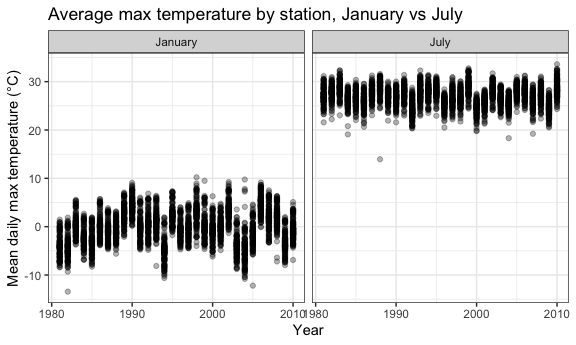
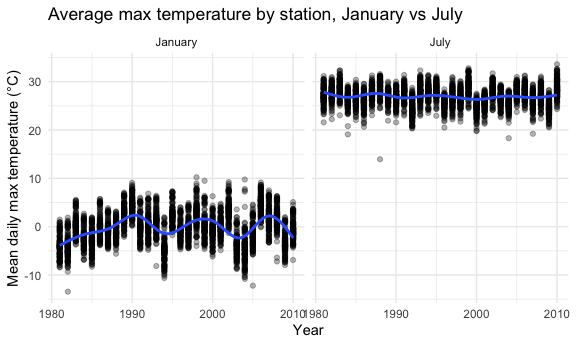
Adding a trend line to plot done in problem 1 for better visualization

diff --git a/p8105_HW3_ADV2123.md b/p8105_HW3_ADV2123.md
@@ -137,10 +137,10 @@ ny_noaa_df |>
   filter(month %in% c("January", "July")) |>
   drop_na(tmax) |>
   group_by(id, year, month) |>
-  summarise(mean_tmax = mean(tmax, na.rm = TRUE), .groups = "drop_last") |>
-  ggplot(aes(x = year, y = mean_tmax, group = id)) +
-  theme_bw() +
-  geom_point( alpha = 0.3) +
+  summarise(mean_tmax = mean(tmax), .groups = "drop") |>
+  ggplot(aes(x = year, y = mean_tmax)) +
+  geom_point(alpha = 0.3) +
+  geom_smooth(se = FALSE) +
   facet_grid(. ~ month) +
   labs(
     title = "Average max temperature by station, January vs July",
@@ -150,6 +150,8 @@ ny_noaa_df |>
 
 mean_tmax_vs_year_plot
 ```
+
+    ## `geom_smooth()` using method = 'gam' and formula = 'y ~ s(x, bs = "cs")'
 
 <img src="p8105_HW3_ADV2123_files/figure-gfm/unnamed-chunk-5-1.png" alt="" width="90%" />
 
